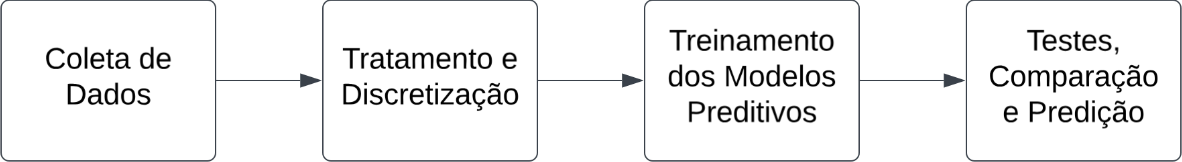
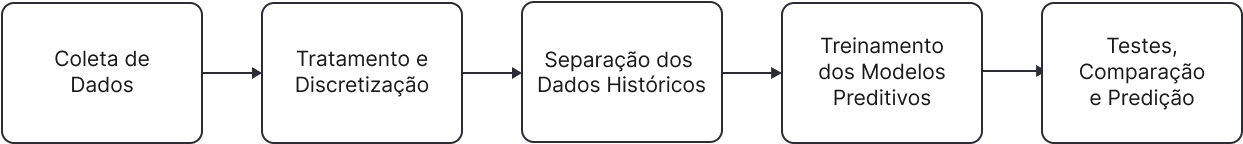
merge

diff --git a/tcc.tex b/tcc.tex
@@ -154,7 +154,7 @@
   \item[XGBoost] \emph{Extreme Gradient Boosting}
 \end{siglas}
 \cleardoublepage
-
+ 
 % ---------------------------------------------------------------
 % SUMÁRIO
 % ---------------------------------------------------------------
@@ -1119,22 +1119,34 @@ F1-\textit{score} e matriz de confusão, conforme discutido na seção \ref{aval
     \item \textbf{Coleta dos dados fornecidos pela \textit{Binance}}: Os dados serão coletados com o
     fechamento em janelas de cinco minutos, durante um período de 9 anos, obtendo
     aproximadamente 920 mil registros.
+
     \item \textbf{Tratamento e discretização dos dados}: Os dados são discretizados utilizando
     a estratégia apresentada em \ref{discretizacao}, assim obtendo uma nova série temporal de
     símbolos pertencentes ao alfabeto simbólico, a qual será repartida em conjunto
     de treinamento e teste.
+
+    \item \textbf{Separação dos Dados Históricos}:
+    Considerando a evolução estrutural de criptoativos 
+    que os fez sair de um nicho tecnológico para um fenômeno financeiro global \cite{MAKAROV2022}, 
+    será realizada a divisão do conjunto de dados em subamostras menores. Como as séries financeiras 
+    naturalmente apresentam quebras estruturais, alternando entre fases de alta, baixa e 
+    lateralização que afastam a propriedade de estacionariedade em  longas janelas de tempo \cite{morettin2018analise}, o intuito 
+    dessa divisão é mitigar um possível viés de homogeneidade.
+
     \item \textbf{Treinamento e adequação dos Modelos Preditivos}: O conjunto de treinamento
     agora já construído será utilizado para o treinamento dos modelos preditivos.
+
     \item \textbf{Testes Estatísticos, Comparações e Predição}: Os modelos de predição agora
     já treinados irão realizar as predições sobre o conjunto de dados separado para
     os testes. Os modelos terão sua adequação avaliada através dos métodos estatísticos
     descritos na seção \ref{avaliacao}.
+
 \end{itemize}
 
 \begin{figure}[htbp]
     \centering
     \caption{Pipeline da solução proposta}
-    \includegraphics[width=0.8\textwidth]{images/pipeline.png}
+    \includegraphics[width=1\textwidth]{images/pipeline.png}
     \fonte{Elaborado pelos autores (2026)}
     \label{fig:pipeline}
 \end{figure}